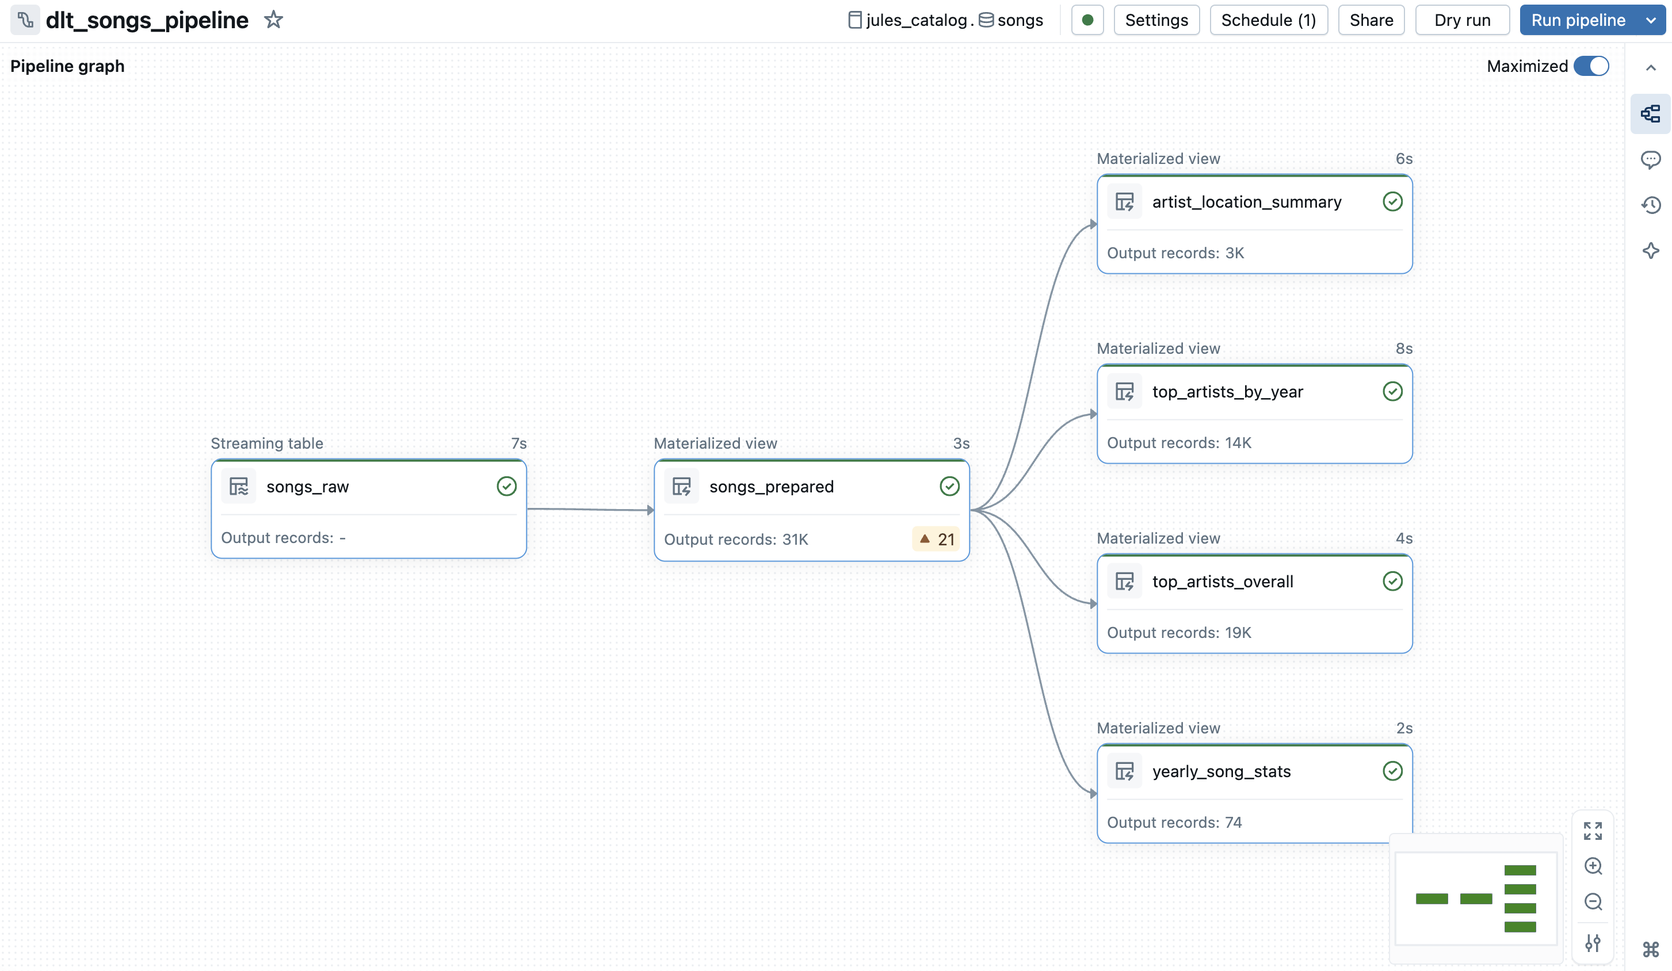
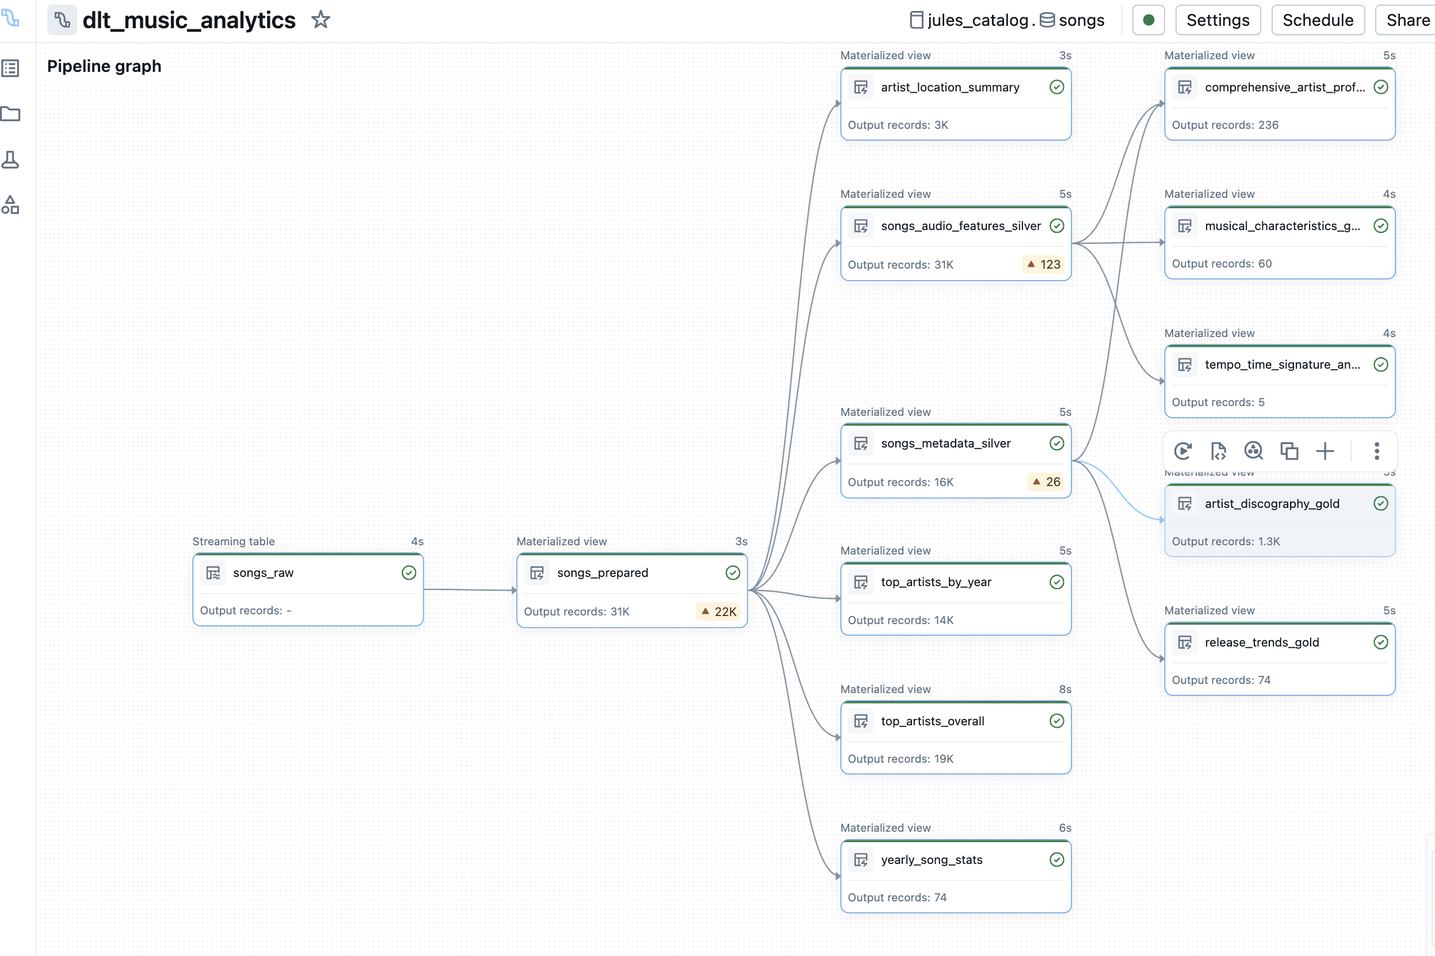
doc changes to reflect the new medallian archicture

diff --git a/src/py/ldp/music_analytics/README.md b/src/py/ldp/music_analytics/README.md
@@ -25,42 +25,37 @@ This directory contains a **Lakeflow Declarative Pipeline (LDP)** implementation
 └──────────────────────────────────────────────────────────────────────────┘
                                     │
                                     ▼
-🥈 SILVER LAYER (Cleaned & Validated)
+🥈 SILVER LAYER (Specialized & Validated)
 ┌─────────────────────────────────────────────────────────────────────────┐
-│  📁 songs_prepared                                                      │
-│  ┌────────────────────────────────────────────────────────────────────┐ │
-│  │ • Data quality validation with @dlt.expect                         │ │
-│  │ • Column renaming (title → song_title)                             │ │
-│  │ • Schema standardization and field selection                       │ │
-│  │ • Quality checks:                                                  │ │
-│  │   ✓ Valid artist names, titles, locations                          │ │
-│  │   ✓ Positive durations, tempo, time signatures                     │ │
-│  │   ✓ Valid years                                                    │ │
-│  └────────────────────────────────────────────────────────────────────┘ │
-└──────────────────────────────────────────────────────────────────────────┘
+│  📊 songs_metadata_silver         🎵 songs_audio_features_silver        │
+│  ┌─────────────────────────────┐   ┌─────────────────────────────────┐   │
+│  │ • Release & temporal data   │   │ • Musical characteristics       │   │
+│  │ • Artist discography info   │   │ • Tempo & rhythm analysis       │   │
+│  │ • Duration & year metadata  │   │ • Time signature patterns       │   │
+│  │ • @dlt.expect validations:  │   │ • @dlt.expect validations:      │   │
+│  │   ✓ Release years 1900-2030 │   │   ✓ Tempo range 40-250 BPM     │   │
+│  │   ✓ Non-null titles/artists │   │   ✓ Time signatures 1-12       │   │
+│  │   ✓ Duration 10-3600 seconds│   │   ✓ Reasonable song durations   │   │
+│  └─────────────────────────────┘   └─────────────────────────────────┘   │
+└─────────────────────────────────────────────────────────────────────────┘
                                     │
                                     ▼
-🥇 GOLD LAYER (Analytics-Ready)
+🥇 GOLD LAYER (Advanced Analytics)
 ┌──────────────────────────────────────────────────────────────────────────┐
-│  📊 Business Intelligence Views                                          │
-│  ┌────────────────────────────────────────────────────────────────────┐  │
-│  │ 🎯 top_artists_by_year                                              │ │
-│  │    • Artist song counts per year                                    │ │
-│  │    • Ranked by productivity                                         │ │
-│  │                                                                     │ │
-│  │ 🏆 top_artists_overall                                              │ │
-│  │    • All-time artist song counts                                    │ │
-│  │    • Career productivity rankings                                   │ │
-│  │                                                                     │ │
-│  │ 📈 yearly_song_stats                                                │ │
-│  │    • Year-over-year summary statistics                              │ │
-│  │    • Duration, tempo trends and percentiles                         │ │
-│  │                                                                     │ │
-│  │ 🌍 artist_location_summary                                          │ │
-│  │    • Geographic distribution of music                               │ │
-│  │    • Location-based audio characteristics                           │ │
-│  └────────────────────────────────────────────────────────────────────┘  │
-└──────────────────────────────────────────────────────────────────────────┘
+│  📊 Temporal Analytics           🎨 Artist Analytics      🎵 Musical Analysis│
+│  ┌─────────────────────────┐    ┌─────────────────────┐  ┌──────────────────┐ │
+│  │ 🎯 top_artists_by_year  │    │ 🏆 top_artists_overall│  │ 🎼 musical_characteristics│
+│  │ 📈 yearly_song_stats    │    │ 📀 artist_discography │  │ 🥁 tempo_time_signature   │
+│  │ 📅 release_trends_gold  │    │ 👤 comprehensive_profile│  │ _analysis_gold            │
+│  │ 🌍 artist_location_sum  │    └─────────────────────┘  └──────────────────┘ │
+│  └─────────────────────────┘                                                │
+│                                                                              │
+│  Features:                                                                   │
+│  • Year-over-year trends    • Career span analysis    • Tempo distributions │
+│  • Geographic patterns      • Discography metrics     • Time signature stats│
+│  • Release productivity     • Musical consistency     • Style categorization│
+│  • Temporal aggregations    • Artist profiling        • Audio feature analysis│
+└──────────────────────────────────────────────────────────────────────────────┘
 ```
 
 ## Pipeline Visualization
@@ -83,6 +78,8 @@ The pipeline processes 20 fields from the Million Song Dataset:
 ## Pipeline Components
 
 ### 1. Bronze Layer: Raw Data Ingestion
+
+#### `songs_raw`
 ```python
 @dlt.table
 def songs_raw():
@@ -90,38 +87,188 @@ def songs_raw():
 ```
 - **Technology**: Databricks Auto Loader with cloudFiles
 - **Format**: Tab-separated CSV files
-- **Schema**: Explicit StructType with 20 fields
-- **Processing**: Streaming incremental ingestion
+- **Schema**: Explicit StructType with 20 fields including artist metadata, song information, and audio features
+- **Processing**: Streaming incremental ingestion from Million Song Dataset
+- **Purpose**: Foundation layer capturing raw music data with all original fields intact
 
-### 2. Silver Layer: Data Preparation & Quality
+### 2. Silver Layer: Specialized Data Preparation & Quality
+
+#### `songs_metadata_silver`
 ```python
 @dlt.table
-@dlt.expect("valid_artist_name", "artist_name IS NOT NULL")
-@dlt.expect("valid_duration", "duration > 0")
-# ... additional quality checks
-def songs_prepared():
+@dlt.expect("valid_release_year", "year > 1900 AND year <= 2030")
+@dlt.expect("valid_song_title_metadata", "song_title IS NOT NULL AND trim(song_title) != ''")
+@dlt.expect("valid_artist_name_metadata", "artist_name IS NOT NULL AND trim(artist_name) != ''")
+@dlt.expect("valid_release_info", "release IS NOT NULL AND trim(release) != ''")
+@dlt.expect("reasonable_duration_metadata", "duration > 10 AND duration < 3600")
+def songs_metadata_silver():
 ```
-- **Data Quality**: Multiple `@dlt.expect` validations
-- **Transformations**: Column renaming and field selection
-- **Validation Rules**: Null checks, positive value constraints
+- **Focus**: Song metadata, releases, and temporal information
+- **Fields**: song_title, artist_name, artist_id, release, year, duration
+- **Data Quality**: Comprehensive validation for release years, non-null titles/artists, reasonable durations
+- **Use Cases**: Release analysis, temporal trends, discography research
 
-### 3. Gold Layer: Analytics Views
+**Example Queries:**
+1. "Which artists released the most albums in the 1990s?"
+2. "What's the average song duration by decade across different genres?"
+3. "Which releases contained the most tracks and when were they published?"
+
+#### `songs_audio_features_silver`
+```python
+@dlt.table
+@dlt.expect("valid_tempo_range", "tempo > 40 AND tempo < 250")
+@dlt.expect("valid_time_signature_range", "time_signature >= 1 AND time_signature <= 12")
+@dlt.expect("valid_song_title_audio", "song_title IS NOT NULL AND trim(song_title) != ''")
+@dlt.expect("valid_artist_name_audio", "artist_name IS NOT NULL AND trim(artist_name) != ''")
+@dlt.expect("reasonable_duration_audio", "duration > 10 AND duration < 3600")
+def songs_audio_features_silver():
+```
+- **Focus**: Musical characteristics and audio analysis features
+- **Fields**: song_title, artist_name, tempo, time_signature, duration
+- **Data Quality**: Validates realistic tempo ranges (40-250 BPM), time signatures (1-12), and song durations
+- **Use Cases**: Musical style analysis, tempo research, rhythmic pattern studies
+
+**Example Queries:**
+1. "What's the distribution of tempo across different time signatures in modern music?"
+2. "Which artists have the most consistent tempo patterns in their catalog?"
+3. "How has the average song tempo changed over the decades?"
+
+### 3. Gold Layer: Advanced Analytics Views
 
 #### `top_artists_by_year`
-- Artists ranked by song count per year
-- Sorted by productivity and chronologically
+```python
+@dlt.table
+def top_artists_by_year():
+```
+- **Purpose**: Artists ranked by song count per year
+- **Fields**: artist_name, year, total_number_of_songs
+- **Sorting**: By productivity (song count) and chronologically
+- **Source**: songs_metadata_silver
+
+**Example Queries:**
+1. "Who was the most prolific artist in 1985 and how many songs did they release?"
+2. "Which years saw the highest number of releases from top artists?"
+3. "How did artist productivity change during different music eras?"
 
 #### `top_artists_overall`
-- All-time artist song counts
-- Career-spanning productivity analysis
+```python
+@dlt.table
+def top_artists_overall():
+```
+- **Purpose**: All-time artist song counts and career-spanning productivity
+- **Fields**: artist_name, total_number_of_songs
+- **Sorting**: By total song count (descending)
+- **Source**: songs_metadata_silver
+
+**Example Queries:**
+1. "Which 10 artists have the largest catalogs in the entire dataset?"
+2. "How many songs separate the most prolific artist from the 50th most prolific?"
+3. "What percentage of total songs do the top 100 artists represent?"
 
 #### `yearly_song_stats`
-- Temporal trends in music characteristics
-- Statistical aggregations: count, average, min/max, median
+```python
+@dlt.table
+def yearly_song_stats():
+```
+- **Purpose**: Year-over-year summary statistics combining metadata and audio features
+- **Fields**: year, song_count, avg_duration_seconds, max/min_duration, avg_tempo_bpm, median_tempo_bpm
+- **Analysis**: Temporal trends in music characteristics and production volume
+- **Source**: Join of songs_metadata_silver and songs_audio_features_silver
+
+**Example Queries:**
+1. "How has the average song duration evolved from the 1960s to the 2000s?"
+2. "Which year had the fastest average tempo and what was the median BPM?"
+3. "In which decades did song production volume peak and decline?"
 
 #### `artist_location_summary`
-- Geographic distribution of musical output
-- Location-based audio characteristic analysis
+```python
+@dlt.table
+def artist_location_summary():
+```
+- **Purpose**: Geographic distribution of musical output with location-based characteristics
+- **Fields**: location, songs_from_location, avg_duration_seconds, avg_tempo_bpm
+- **Analysis**: Regional music patterns and geographical audio characteristics
+- **Source**: Raw data (includes location field not in silver tables)
+
+**Example Queries:**
+1. "Which cities or regions produce the most music and what are their typical tempos?"
+2. "Do artists from certain geographic locations tend to create longer or shorter songs?"
+3. "How does the average tempo vary between different countries or regions?"
+
+#### `release_trends_gold`
+```python
+@dlt.table
+def release_trends_gold():
+```
+- **Purpose**: Release patterns, temporal analysis, and album productivity metrics
+- **Fields**: year, total_songs_released, unique_releases, active_artists, duration statistics, songs_per_release
+- **Analysis**: Music industry productivity trends and release behavior over time
+- **Source**: songs_metadata_silver
+
+**Example Queries:**
+1. "Which years had the highest ratio of songs per release (indicating longer albums)?"
+2. "How has the number of active artists changed over different decades?"
+3. "What's the relationship between total song releases and unique album releases by year?"
+
+#### `artist_discography_gold`
+```python
+@dlt.table
+def artist_discography_gold():
+```
+- **Purpose**: Comprehensive artist catalog analysis with career metrics
+- **Fields**: artist_name, total_songs, album_count, career_start/end_year, career_span_years, songs_per_album, total_catalog_duration
+- **Analysis**: Artist career longevity, productivity patterns, and catalog characteristics
+- **Source**: songs_metadata_silver (filtered for artists with 3+ songs)
+
+**Example Queries:**
+1. "Which artists had the longest careers and maintained consistent output?"
+2. "What's the average number of songs per album for the most prolific artists?"
+3. "Who has the largest total catalog duration and how many hours of music is that?"
+
+#### `musical_characteristics_gold`
+```python
+@dlt.table
+def musical_characteristics_gold():
+```
+- **Purpose**: Audio feature distributions and musical style categorization
+- **Fields**: tempo_category, time_signature, duration_category, song_count, tempo/duration averages
+- **Analysis**: Musical style patterns with categorical tempo (Slow/Medium/Fast/Very Fast) and duration groupings
+- **Source**: songs_audio_features_silver
+
+**Example Queries:**
+1. "What's the most common combination of tempo category and time signature?"
+2. "Do fast tempo songs tend to be shorter or longer in duration?"
+3. "Which time signatures are most associated with very fast tempo music?"
+
+#### `tempo_time_signature_analysis_gold`
+```python
+@dlt.table
+def tempo_time_signature_analysis_gold():
+```
+- **Purpose**: Deep analysis of tempo and time signature relationships with statistical distributions
+- **Fields**: time_signature, song_count, tempo statistics (avg, min, max, quartiles, stddev), popularity_rank
+- **Analysis**: Detailed tempo patterns by time signature including variability and popularity rankings
+- **Source**: songs_audio_features_silver
+
+**Example Queries:**
+1. "Which time signature has the widest tempo range and highest tempo variability?"
+2. "What are the tempo quartiles for the most popular time signatures?"
+3. "How does tempo consistency vary between different rhythmic patterns?"
+
+#### `comprehensive_artist_profile_gold`
+```python
+@dlt.table
+def comprehensive_artist_profile_gold():
+```
+- **Purpose**: Combined artist analysis merging discography and musical style characteristics
+- **Fields**: artist_name, career metrics, musical consistency rating, tempo diversity, time_signature_diversity
+- **Analysis**: Holistic artist profiles combining career span, productivity, and musical style consistency
+- **Source**: Join of songs_metadata_silver and songs_audio_features_silver (filtered for artists with 5+ songs)
+
+**Example Queries:**
+1. "Which artists show the most musical diversity in their tempo and time signature choices?"
+2. "Who are the most musically consistent artists versus those with the most experimental styles?"
+3. "What's the relationship between career span and musical style diversity for top artists?"
 
 ## Key Features
 

diff --git a/README.md b/README.md
@@ -85,10 +85,12 @@ cd src/py/ldp/music_analytics
 ### 3. **Music Analytics - Million Song Dataset** (LDP)
 - **Framework**: Databricks Lakeflow Declarative Pipelines
 - **Data**: Million Song Dataset with 20 fields of artist, song, and audio features
-- **Features**: Medallion architecture (Bronze/Silver/Gold), streaming ingestion, data quality validation
-- **Analytics**: Top artists, yearly trends, location-based music analytics, temporal statistics
-- **Storage**: Delta tables with comprehensive data lineage
-- **Scale**: Production-ready streaming data processing with Auto Loader
+- **Architecture**: Medallion pattern with specialized silver tables and comprehensive gold analytics
+- **Silver Layer**: Domain-focused tables (`songs_metadata_silver`, `songs_audio_features_silver`) with comprehensive data quality validation
+- **Gold Layer**: 9 advanced analytics tables across temporal, artist, and musical analysis dimensions
+- **Analytics**: Artist discography analysis, temporal trends, musical characteristics, tempo/time signature patterns, comprehensive artist profiles
+- **Storage**: Delta tables with Unity Catalog integration and automatic data lineage
+- **Scale**: Production-ready streaming data processing with Auto Loader and extensive data quality rules
 
 ## 🛠 Technologies & Frameworks
 
@@ -101,11 +103,12 @@ cd src/py/ldp/music_analytics
 - **Plotly**: Interactive data visualizations
 
 ### Architecture Patterns
-- **Declarative Pipelines**: SDP framework with Python decorators
-- **Medallion Architecture**: Bronze/Silver/Gold data layers (DLT)
-- **Materialized Views**: Efficient data transformation caching
-- **Data Quality Framework**: Validation rules and monitoring
-- **Shared Utilities**: Reusable data generation components
+- **Declarative Pipelines**: SDP framework with Python decorators and LDP with `@dlt.table` decorators
+- **Medallion Architecture**: Bronze/Silver/Gold data layers with specialized silver tables for domain separation
+- **Materialized Views**: Efficient data transformation caching and automatic dependency resolution
+- **Data Quality Framework**: Comprehensive validation rules with `@dlt.expect` decorators for tempo, duration, and metadata validation
+- **Advanced Analytics**: Multi-dimensional gold layer tables combining temporal, artist, and musical analysis
+- **Shared Utilities**: Reusable data generation components across frameworks
 
 ## 📋 Quick Reference
 
@@ -144,12 +147,13 @@ cat README.md
 
 This repository demonstrates:
 
-1. **Framework Comparison**: SDP vs DLT for different use cases
-2. **Data Generation**: Realistic synthetic data creation patterns
-3. **Pipeline Architecture**: Declarative vs streaming approaches  
-4. **Quality Engineering**: Data validation and monitoring strategies
-5. **Modern Tooling**: UV, Unity Catalog, and latest Spark features
-6. **Production Patterns**: Environment management and deployment workflows
+1. **Framework Comparison**: SDP vs LDP for different use cases and data processing paradigms
+2. **Data Generation**: Realistic synthetic data creation patterns with Faker library
+3. **Pipeline Architecture**: Declarative transformations, medallion architecture, and specialized table design
+4. **Quality Engineering**: Comprehensive data validation with `@dlt.expect` rules and monitoring strategies
+5. **Advanced Analytics**: Multi-dimensional analysis combining temporal trends, artist profiling, and musical characteristics
+6. **Modern Tooling**: UV package management, Unity Catalog, Auto Loader, and latest Spark features
+7. **Production Patterns**: Streaming ingestion, environment management, and scalable deployment workflows
 
 ## 📚 Documentation
 

diff --git a/CLAUDE.md b/CLAUDE.md
@@ -125,10 +125,15 @@ ldp_pipeline_name/
 4. **Analytics**: Query modules provide data access and visualization capabilities
 
 #### LDP Data Flow (Music Analytics)
-1. **Bronze Layer**: Raw data ingestion from Million Song Dataset with Auto Loader
-2. **Silver Layer**: Data cleaning and validation with `@dlt.expect` quality rules
-3. **Gold Layer**: Analytics-ready aggregated views for business intelligence
-4. **Visualization**: Comprehensive README with pipeline architecture diagrams
+1. **Bronze Layer**: Raw data ingestion from Million Song Dataset with Auto Loader (`songs_raw`)
+2. **Silver Layer**: Specialized data preparation with comprehensive validation
+   - `songs_metadata_silver`: Release and temporal information with year/duration validation
+   - `songs_audio_features_silver`: Musical characteristics with tempo/time signature validation
+3. **Gold Layer**: Advanced analytics views across three categories:
+   - **Temporal Analytics**: `top_artists_by_year`, `yearly_song_stats`, `release_trends_gold`, `artist_location_summary`
+   - **Artist Analytics**: `top_artists_overall`, `artist_discography_gold`, `comprehensive_artist_profile_gold`
+   - **Musical Analysis**: `musical_characteristics_gold`, `tempo_time_signature_analysis_gold`
+4. **Visualization**: Comprehensive README with updated medallion architecture diagrams
 
 ### Key Framework Patterns
 
@@ -139,10 +144,12 @@ ldp_pipeline_name/
 - **Configuration-driven Discovery**: `pipeline.yml` uses glob patterns to auto-discover transformation files
 
 #### LDP Patterns
-- **Medallion Architecture**: Bronze/Silver/Gold progression with clear data lineage
-- **Data Quality Framework**: `@dlt.expect` decorators for validation rules
-- **Streaming Ingestion**: Auto Loader for incremental data processing
-- **Declarative Definitions**: `@dlt.table` decorators for transformation specification
+- **Medallion Architecture**: Bronze/Silver/Gold progression with clear data lineage and specialized silver tables
+- **Data Quality Framework**: Comprehensive `@dlt.expect` decorators for validation rules (tempo ranges, year validation, duration checks)
+- **Streaming Ingestion**: Auto Loader for incremental data processing with schema enforcement
+- **Declarative Definitions**: `@dlt.table` decorators for transformation specification with automatic dependency resolution
+- **Specialized Silver Tables**: Domain-focused tables (`metadata_silver`, `audio_features_silver`) for targeted analytics
+- **Advanced Gold Analytics**: Multi-dimensional analysis tables combining temporal, artist, and musical perspectives
 
 ## Important Dependencies
 
@@ -155,7 +162,7 @@ ldp_pipeline_name/
 
 ### LDP Dependencies
 - **Databricks Runtime**: Required for Lakeflow Declarative Pipelines
-- **Delta Live Tables**: Declarative pipeline framework (now called LDP)
+- **Lakeflow Declarative Pipelines**: Declarative pipeline framework (now called LDP)
 - **Auto Loader**: Streaming file ingestion capability
 - **Unity Catalog**: Data governance and lineage tracking
 
